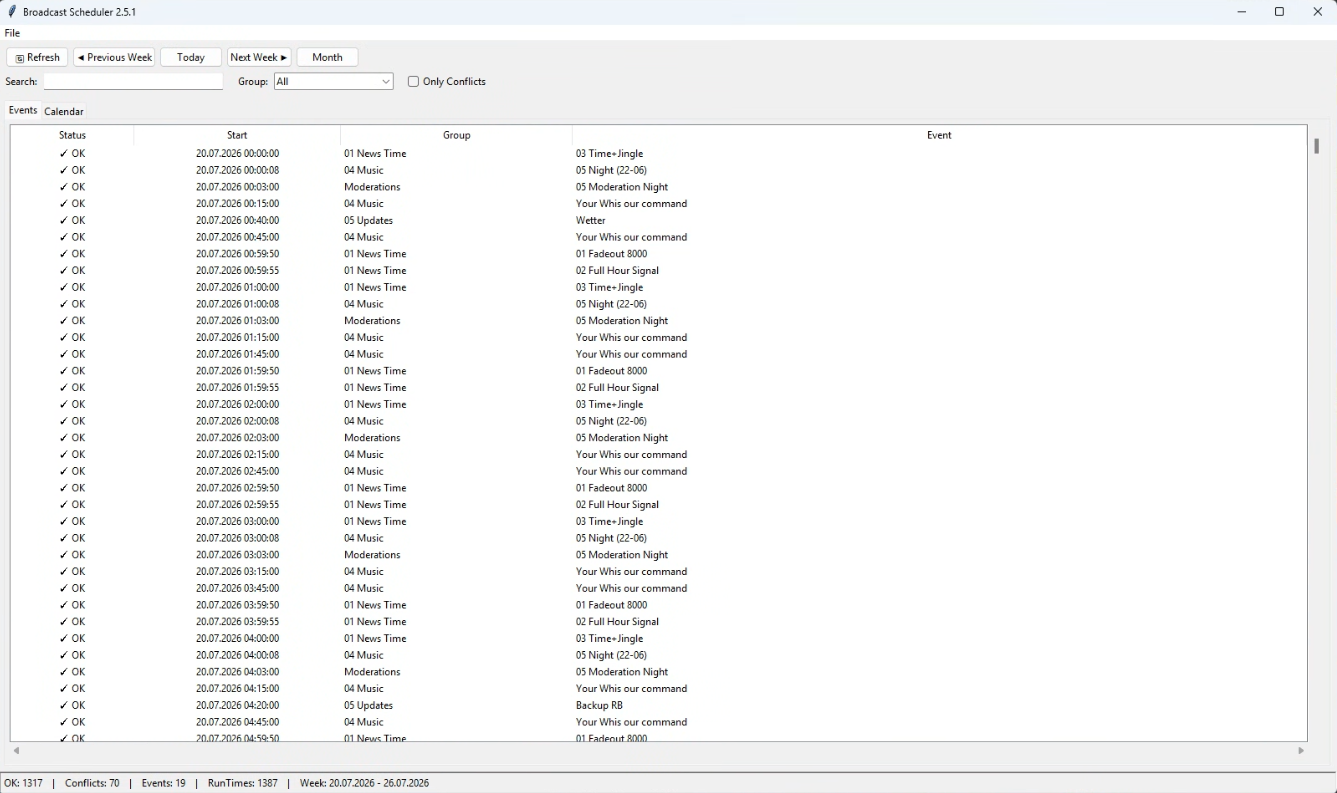
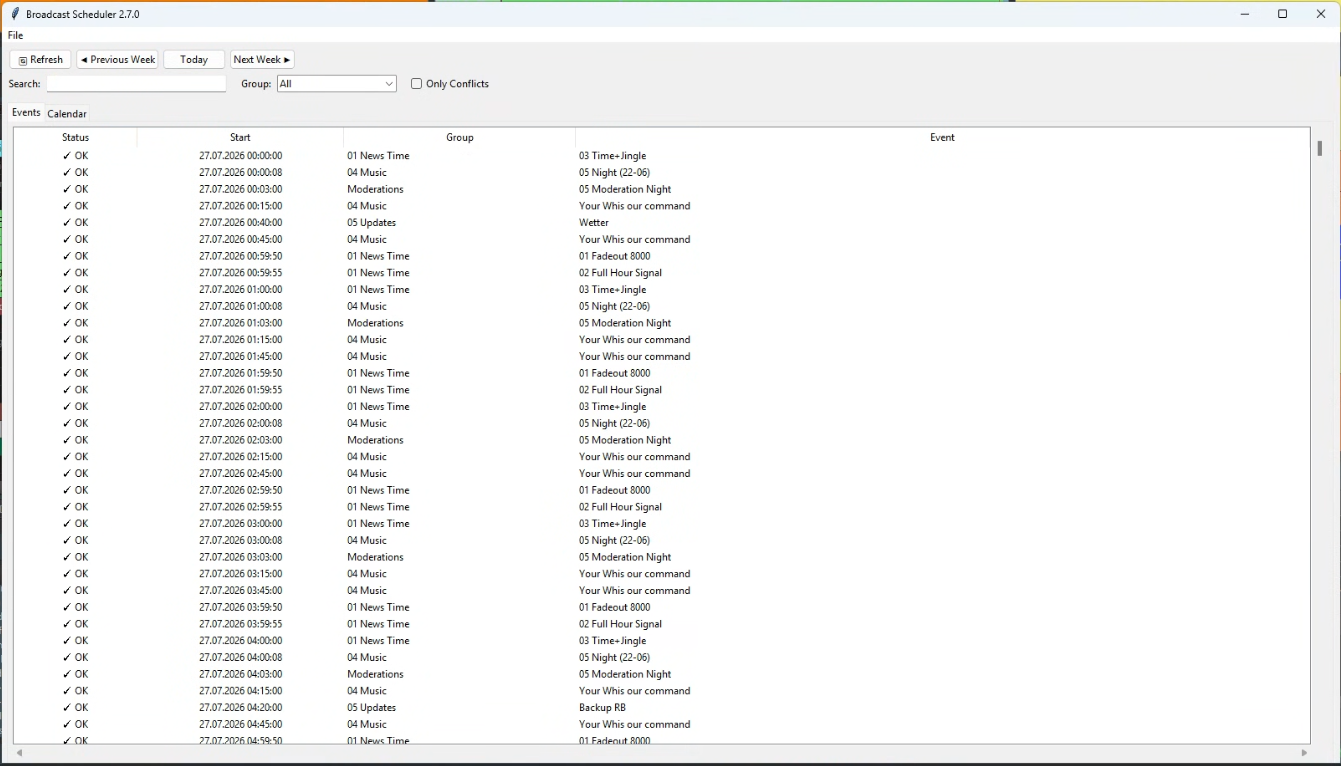
Updated 28.07.2026

Changed region(s): [[0.0, 0.0, 1.0, 1.0], [0.92, 0.0, 1.0, 0.03], [0.9813, 0.1802, 1.0, 0.2102]]

diff --git a/INSTALL.md b/INSTALL.md
@@ -1,0 +1,76 @@
+# INSTALL.md
+
+# Broadcast Scheduler Installation Guide
+
+## Requirements
+
+-   Windows 10 or Windows 11
+-   Python 3.12 or newer
+-   RadioBOSS
+-   Tkinter (included with Python)
+
+## Installation
+
+### 1. Download the project
+
+Clone the repository:
+
+``` bash
+git clone https://github.com/mixnetwork1959/BroadcastScheduler.git
+```
+
+or download the ZIP file from GitHub.
+
+### 2. Open the project folder
+
+``` bash
+cd BroadcastScheduler
+```
+
+### 3. Create your settings file
+
+Copy:
+
+    settings.example.json
+
+to
+
+    settings.json
+
+### 4. Configure the Admin.sdl path
+
+Example:
+
+``` json
+{
+    "admin_sdl": "C:/Users/USERNAME/AppData/Roaming/djsoft.net/RadioBOSS_xxxxxxxxx/Presets/Schedule/Admin.sdl"
+}
+```
+
+### 5. Start the application
+
+``` bash
+py scheduler.py
+```
+
+## Important
+
+Broadcast Scheduler is **read-only**.
+
+It never modifies your RadioBOSS schedule. It only reads the `Admin.sdl`
+file.
+
+## Troubleshooting
+
+### File not found
+
+Verify that the path in `settings.json` points to the correct
+`Admin.sdl`.
+
+### Python not found
+
+Install Python 3.12+ and ensure it is added to the Windows PATH.
+
+### Tkinter error
+
+Tkinter is included with the standard Python installer.

diff --git a/USER_GUIDE.md b/USER_GUIDE.md
@@ -1,0 +1,52 @@
+# USER_GUIDE.md
+
+# Broadcast Scheduler User Guide
+
+## Purpose
+
+Broadcast Scheduler provides a visual overview of your RadioBOSS
+scheduler.
+
+It helps verify your weekly schedule before going on air.
+
+## Event List
+
+The Event List displays:
+
+-   Status
+-   Start date and time
+-   Group
+-   Event name
+
+Use the search box or group filter to find events quickly.
+
+## Weekly Calendar
+
+The calendar shows every scheduled event during the selected week.
+
+Use:
+
+-   Previous Week
+-   Today
+-   Next Week
+
+to navigate.
+
+The calendar automatically scrolls near the current time.
+
+## Event Details
+
+Double-click an event to display additional information including:
+
+-   Event ID
+-   Group
+-   Start time
+-   End time
+-   RadioBOSS colors
+
+## Simultaneous Events
+
+A warning means two or more scheduler events start at the same scheduled
+time.
+
+This does **not** automatically indicate an error.

diff --git a/FAQ.md b/FAQ.md
@@ -1,0 +1,32 @@
+# FAQ.md
+
+# Frequently Asked Questions
+
+## Does Broadcast Scheduler modify RadioBOSS?
+
+No.
+
+The application is completely read-only.
+
+## Where is Admin.sdl located?
+
+Typical location:
+
+    C:\Users\<USERNAME>\AppData\Roaming\djsoft.net\RadioBOSS_xxxxxxxxx\Presets\Schedule\
+
+## Why are some events highlighted?
+
+Multiple scheduler events are configured to start at exactly the same
+scheduled time.
+
+## Does the program support all RadioBOSS scheduler options?
+
+Currently it supports the most commonly used scheduling features.
+
+Support for additional options will be added in future releases.
+
+## Can I edit events?
+
+No.
+
+Broadcast Scheduler is an analysis tool only.

diff --git a/README.md b/README.md
@@ -11,6 +11,14 @@ events, and inspect the complete weekly schedule before going on air.
 
 ------------------------------------------------------------------------
 
+## 📚 Documentation
+
+- 📘 [Installation Guide](INSTALL.md)
+- 📖 [User Guide](USER_GUIDE.md)
+- ❓ [Frequently Asked Questions](FAQ.md)
+
+------------------------------------------------------------------------
+
 # ✨ Features
 
 -   ✅ Native Windows desktop application
